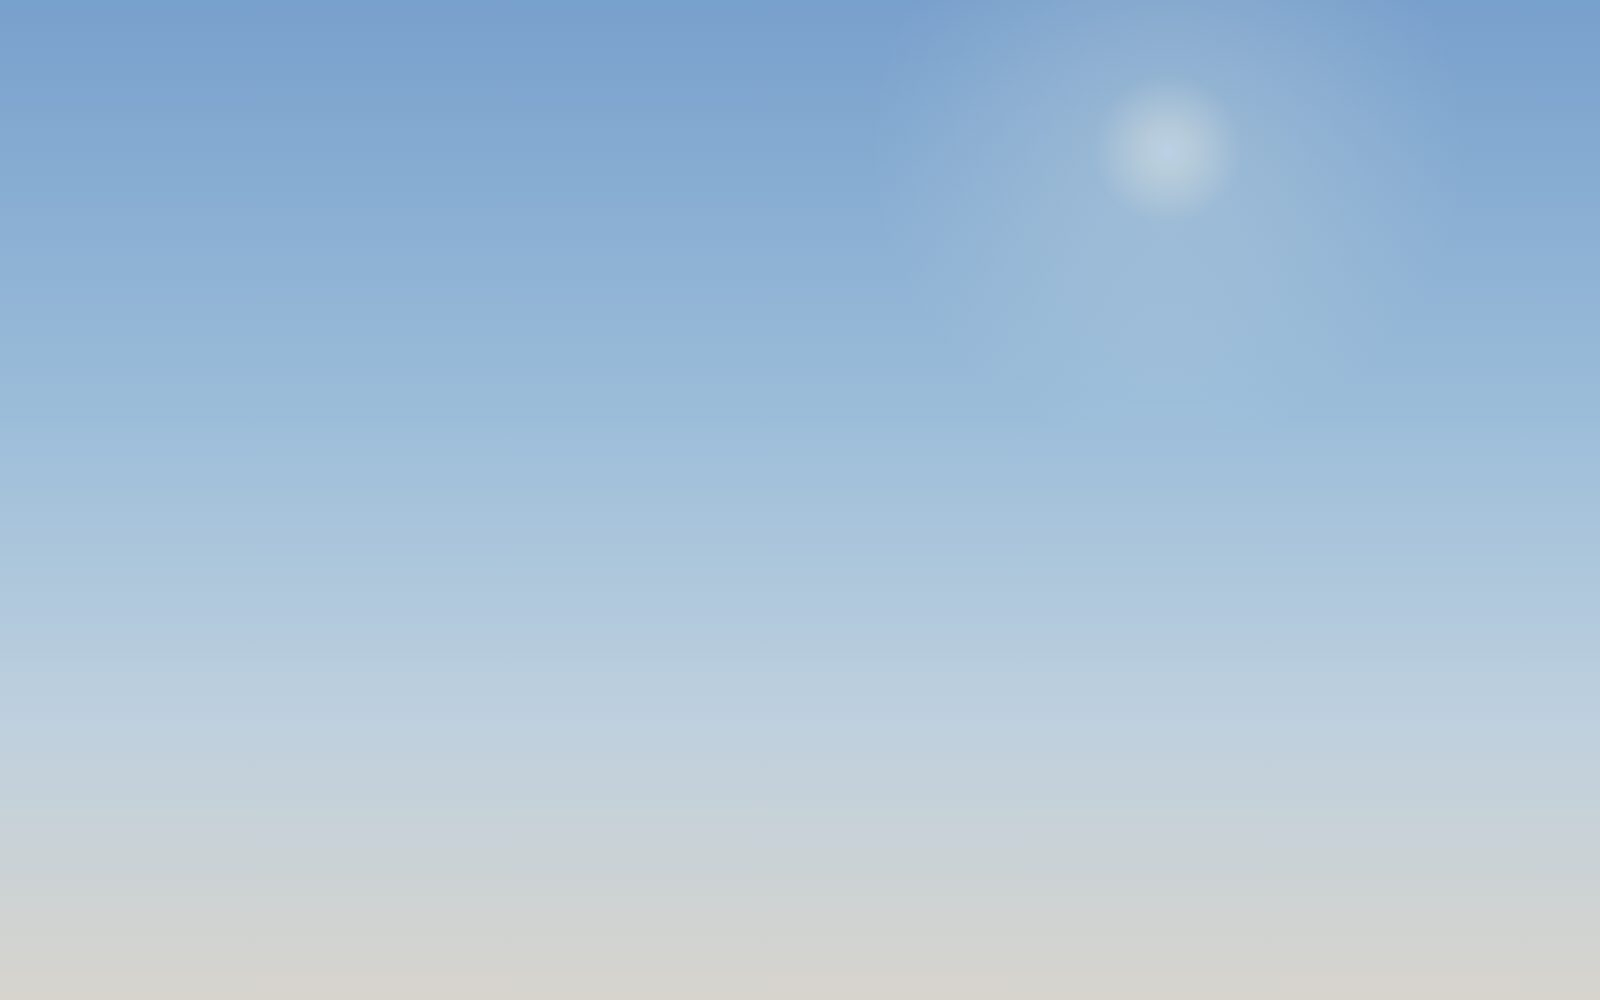
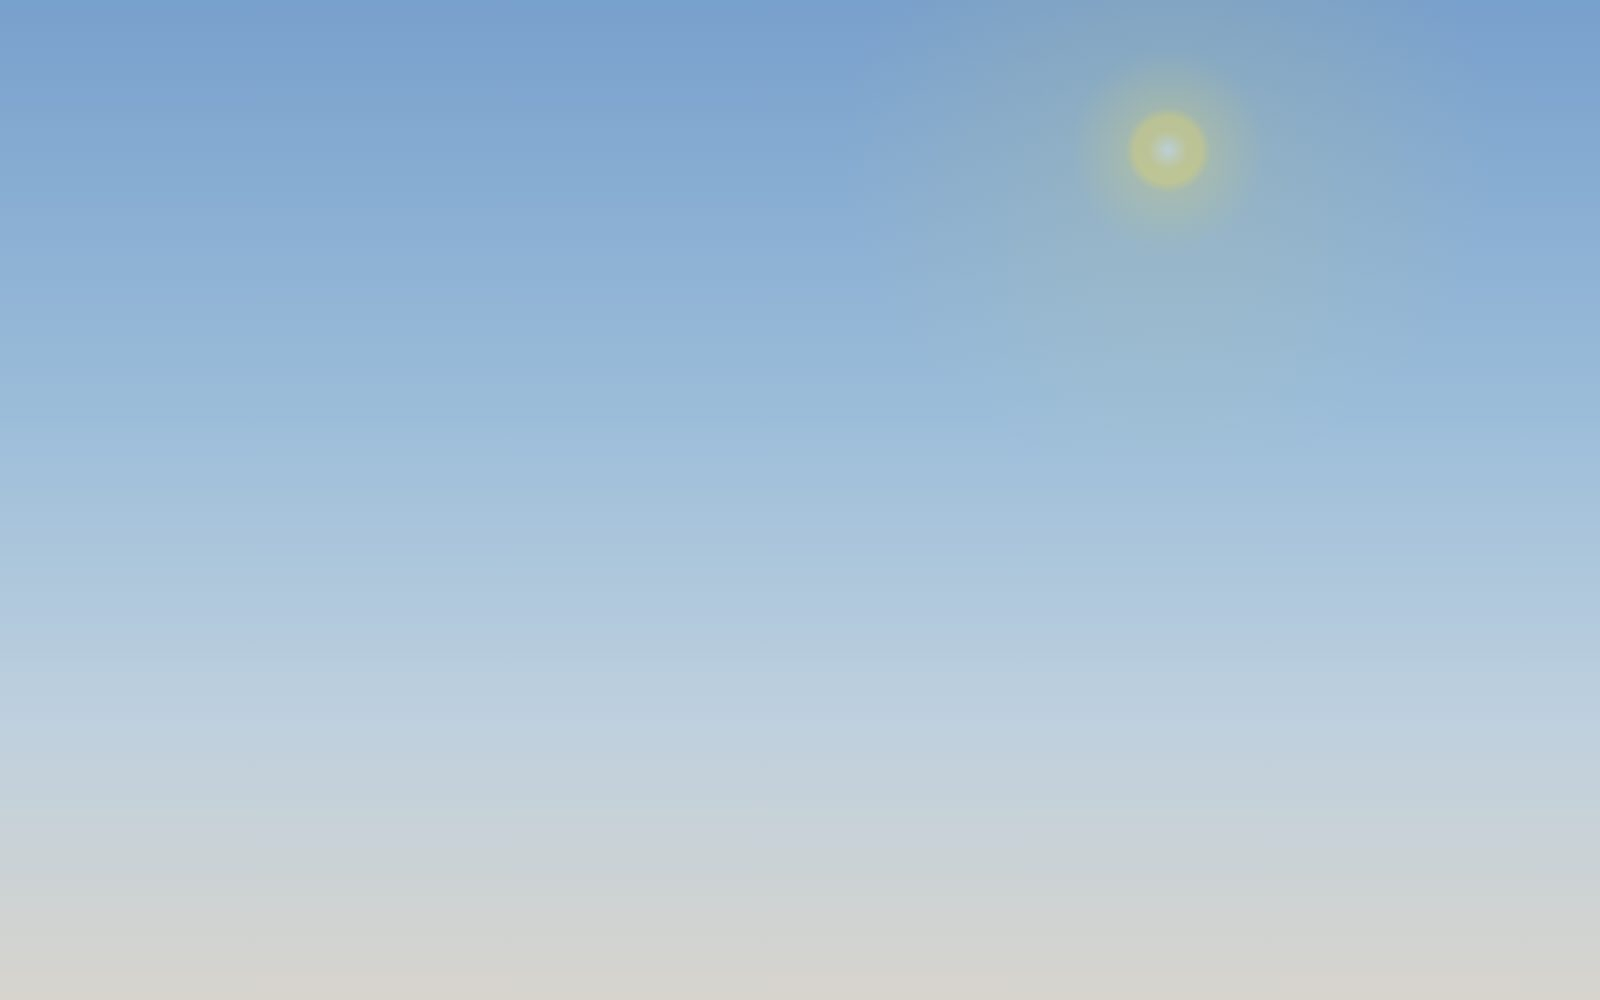
Tema Céu: sol amarelo (disco e brilho) e raios amarelados
Claude-Session: https://claude.ai/code/session_01QDjm5Ds1oAwQpQakCaEMvL

Changed region(s): [[0.6562, 0.062, 0.7812, 0.248]]

diff --git a/luna-ai/scripts/sky/sky.html b/luna-ai/scripts/sky/sky.html
@@ -14,9 +14,9 @@ const show = (k) => layer === 'tudo' || layer === k;
 const H = 1000, W = layer === 'nuvens' ? 3200 : 1600;
 if (layer !== 'ceu' && layer !== 'tudo') document.body.style.background = 'transparent';
 const P = {
-  manha: { sky: ['#4f8fd6', '#8cc3ef', '#cfe6f7', '#fbefd9'], sun: [0.73, 0.15, '#fffbe8', 300], light: '#ffffff', shade: '#9db3c9', az: 225, el: 38, hills: ['#6f8fa3', '#4f7a5f', '#2f5a3c'], haze: '#cfe6f7', hz: 0.55, gray: '#aab4bf' },
-  dia: { sky: ['#2f6fc4', '#5b9fe0', '#a6d0f2', '#e2f0fa'], sun: [0.86, 0.08, '#ffffff', 260], light: '#ffffff', shade: '#8ea6bf', az: 240, el: 60, hills: ['#7a95a8', '#4d7b5a', '#2c5838'], haze: '#c6e1f5', hz: 0.5, gray: '#9ea9b4' },
-  tarde: { sky: ['#2b2d5c', '#7a4a7a', '#e07a5f', '#ffc677'], sun: [0.5, 0.75, '#ffe2a8', 520], light: '#ffb98a', shade: '#5a3a63', az: 190, el: 12, hills: ['#6b4560', '#3e2a45', '#1d1426'], haze: '#e98a6a', hz: 0.45, gray: '#6e6170' },
+  manha: { sky: ['#4f8fd6', '#8cc3ef', '#cfe6f7', '#fbefd9'], sun: [0.73, 0.15, '#ffe14d', 330], light: '#ffffff', shade: '#9db3c9', az: 225, el: 38, hills: ['#6f8fa3', '#4f7a5f', '#2f5a3c'], haze: '#cfe6f7', hz: 0.55, gray: '#aab4bf' },
+  dia: { sky: ['#2f6fc4', '#5b9fe0', '#a6d0f2', '#e2f0fa'], sun: [0.86, 0.08, '#ffe54a', 300], light: '#ffffff', shade: '#8ea6bf', az: 240, el: 60, hills: ['#7a95a8', '#4d7b5a', '#2c5838'], haze: '#c6e1f5', hz: 0.5, gray: '#9ea9b4' },
+  tarde: { sky: ['#2b2d5c', '#7a4a7a', '#e07a5f', '#ffc677'], sun: [0.5, 0.75, '#ffb23a', 520], light: '#ffb98a', shade: '#5a3a63', az: 190, el: 12, hills: ['#6b4560', '#3e2a45', '#1d1426'], haze: '#e98a6a', hz: 0.45, gray: '#6e6170' },
   noite: { sky: ['#03050c', '#08102a', '#121d3d', '#1f2c52'], moon: [0.62, 0.15], light: '#3e4b6a', shade: '#0a0f20', az: 110, el: 30, hills: ['#18213a', '#0e1426', '#06090f'], haze: '#1a2547', hz: 0.3, gray: '#1c2230' },
 }[phase];
 const C = { limpo: { cover: [3.4, -1.68], gray: 0, op: 0.95, h: 0.47 }, nublado: { cover: [2.8, -0.85], gray: 0.45, op: 1, h: 0.62 }, chuva: { cover: [2.4, -0.55], gray: 0.72, op: 1, h: 1 } }[wx];
@@ -30,7 +30,7 @@ let defs = `<linearGradient id="sky" x1="0" y1="0" x2="0" y2="1">${sky.map((c, i
 let body = show('ceu') ? `<rect width="${W}" height="${H}" fill="url(#sky)"/>` : '';
 if (show('ceu') && phase === 'noite') for (let i = 0; i < (wx === 'limpo' ? 330 : wx === 'nublado' ? 90 : 0); i++) { const z = r(); body += `<circle cx="${(r() * W) | 0}" cy="${(r() * H * 0.62) | 0}" r="${(0.5 + z * z * 1.9).toFixed(2)}" fill="#fff" opacity="${(0.25 + r() * 0.7).toFixed(2)}"/>`; }
 if (show('ceu') && P.sun && wx !== 'chuva') { const [x, y, c, rad] = P.sun; const o = wx === 'limpo' ? 1 : 0.45;
-  defs += `<radialGradient id="sun"><stop offset="0" stop-color="#fff" stop-opacity="${o}"/><stop offset=".08" stop-color="${c}" stop-opacity="${0.9 * o}"/><stop offset=".25" stop-color="${c}" stop-opacity="${0.35 * o}"/><stop offset="1" stop-color="${c}" stop-opacity="0"/></radialGradient>`;
+  defs += `<radialGradient id="sun"><stop offset="0" stop-color="#fffbe0" stop-opacity="${o}"/><stop offset=".06" stop-color="${c}" stop-opacity="${o}"/><stop offset=".1" stop-color="${c}" stop-opacity="${o}"/><stop offset=".13" stop-color="${c}" stop-opacity="${0.55 * o}"/><stop offset=".3" stop-color="${c}" stop-opacity="${0.2 * o}"/><stop offset="1" stop-color="${c}" stop-opacity="0"/></radialGradient>`;
   body += `<circle cx="${x * W}" cy="${y * H}" r="${rad}" fill="url(#sun)"/>`; }
 if (show('ceu') && P.moon && wx !== 'chuva') { const [x, y] = P.moon; const o = wx === 'limpo' ? 1 : 0.5;
   defs += `<radialGradient id="mg"><stop offset="0" stop-color="#dfe6ff" stop-opacity=".35"/><stop offset="1" stop-color="#dfe6ff" stop-opacity="0"/></radialGradient>

diff --git a/luna-ai/apps/web/src/styles/themes.css b/luna-ai/apps/web/src/styles/themes.css
@@ -384,9 +384,9 @@ html:not([data-theme='hud']) .m-tile:has(.m-dim.dragging), html:not([data-theme=
 .sky-rays { position: absolute; width: 1500px; height: 1500px; margin: -750px 0 0 -750px; pointer-events: none; opacity: 0.9;
   -webkit-mask: radial-gradient(closest-side, #000 6%, rgba(0, 0, 0, 0.55) 30%, transparent 100%); mask: radial-gradient(closest-side, #000 6%, rgba(0, 0, 0, 0.55) 30%, transparent 100%); }
 .sky-rays::before, .sky-rays::after { content: ''; position: absolute; inset: 0; border-radius: 50%; will-change: transform; }
-.sky-rays::before { background: repeating-conic-gradient(from 0deg, transparent 0deg, rgba(255, 246, 214, 0.16) 2.5deg, transparent 5deg, transparent 12deg); animation: sky-spin 160s linear infinite; }
-.sky-rays::after { background: repeating-conic-gradient(from 5deg, transparent 0deg, rgba(255, 238, 200, 0.1) 4deg, transparent 8deg, transparent 19deg); animation: sky-spin 230s linear infinite reverse, sky-pulse 9s ease-in-out infinite alternate; }
-.sky-rays.tarde::before { background: repeating-conic-gradient(from 0deg, transparent 0deg, rgba(255, 196, 140, 0.18) 2.5deg, transparent 5deg, transparent 12deg); }
+.sky-rays::before { background: repeating-conic-gradient(from 0deg, transparent 0deg, rgba(255, 221, 90, 0.2) 2.5deg, transparent 5deg, transparent 12deg); animation: sky-spin 160s linear infinite; }
+.sky-rays::after { background: repeating-conic-gradient(from 5deg, transparent 0deg, rgba(255, 210, 80, 0.13) 4deg, transparent 8deg, transparent 19deg); animation: sky-spin 230s linear infinite reverse, sky-pulse 9s ease-in-out infinite alternate; }
+.sky-rays.tarde::before { background: repeating-conic-gradient(from 0deg, transparent 0deg, rgba(255, 178, 70, 0.22) 2.5deg, transparent 5deg, transparent 12deg); }
 .sky-rays.faint { opacity: 0.35; }
 @keyframes sky-spin { to { transform: rotate(360deg); } }
 @keyframes sky-pulse { from { opacity: 0.4; } to { opacity: 1; } }
